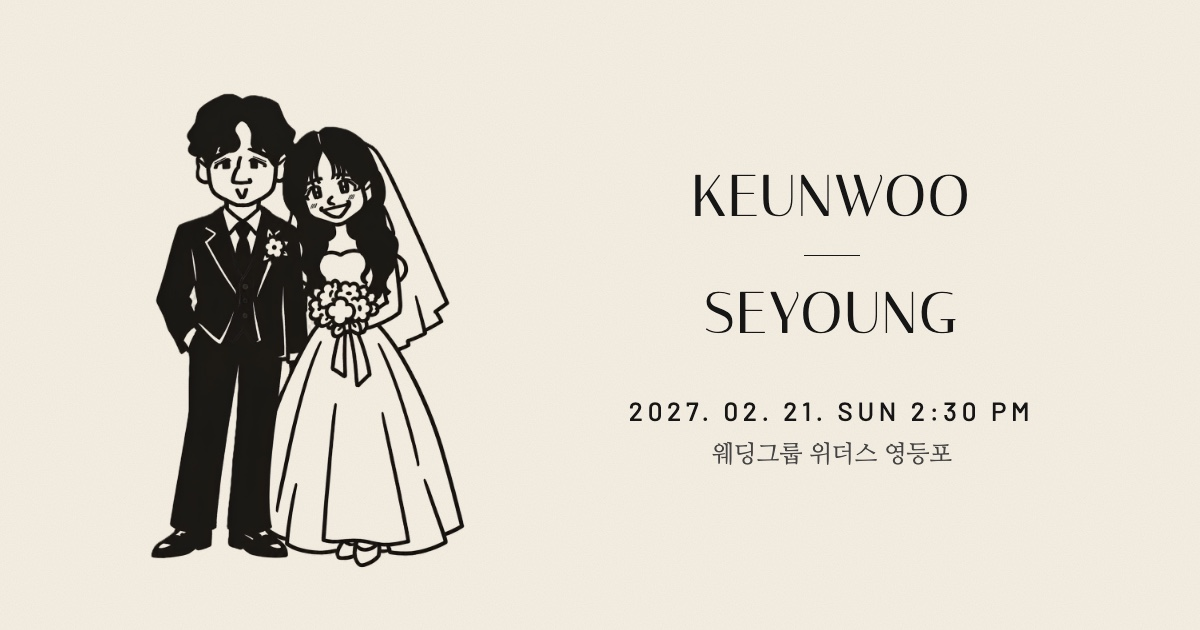
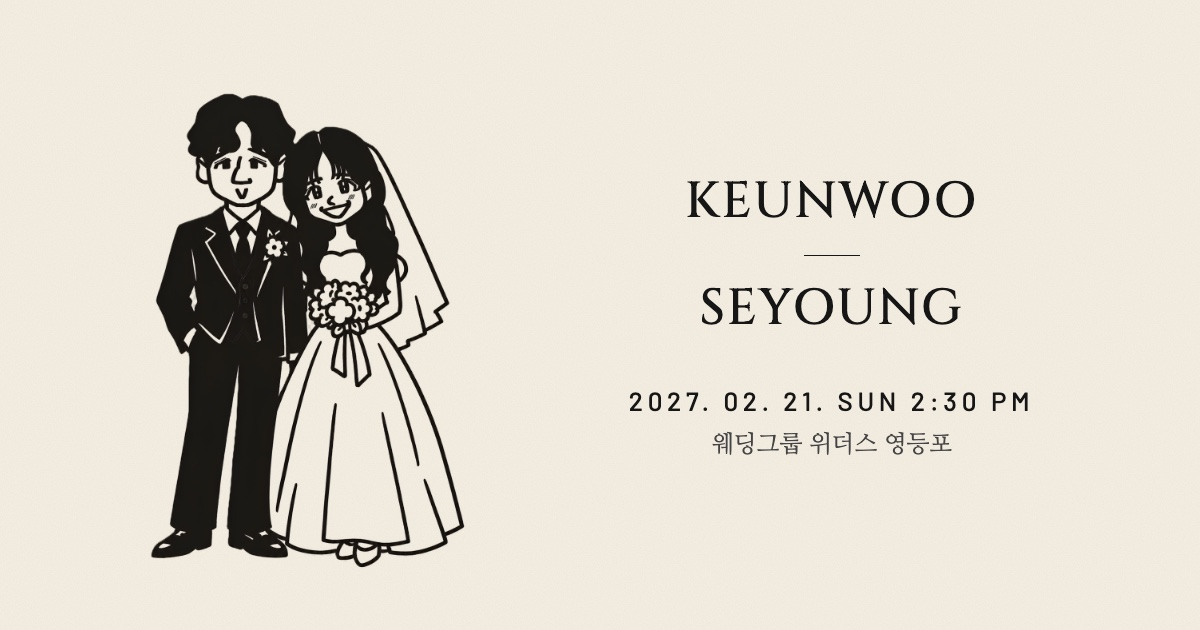
Improve heading font legibility
- Names: Italiana -> Cinzel 500 (cover, footer, OG image)
- SAVE THE DATE: Bodoni Moda at small optical size for thicker hairlines

Changed region(s): [[0.5242, 0.6032, 0.8633, 0.754], [0.555, 0.2714, 0.8325, 0.3619], [0.5858, 0.4524, 0.8017, 0.5429]]

diff --git a/index.html b/index.html
@@ -19,7 +19,7 @@
 <meta name="theme-color" content="#f5efe3">
 <link rel="preconnect" href="https://fonts.googleapis.com">
 <link rel="preconnect" href="https://fonts.gstatic.com" crossorigin>
-<link href="https://fonts.googleapis.com/css2?family=Italiana&family=Barlow:wght@500&family=Bodoni+Moda:opsz,wght@6..96,700&family=Nanum+Myeongjo:wght@400;700;800&family=Noto+Sans+KR:wght@400&display=swap" rel="stylesheet">
+<link href="https://fonts.googleapis.com/css2?family=Cinzel:wght@500&family=Barlow:wght@500&family=Bodoni+Moda:opsz,wght@6..96,700&family=Nanum+Myeongjo:wght@400;700;800&family=Noto+Sans+KR:wght@400&display=swap" rel="stylesheet">
 <style>
   :root {
     --paper: #f5efe3;
@@ -70,8 +70,8 @@
     container-type: size; /* 남은 공간 크기를 일러스트 크기 계산에 사용 */
   }
   .cover .names {
-    font-family: 'Italiana', serif; font-weight: 400;
-    font-size: clamp(22px, 7vw, 34px); letter-spacing: .04em; line-height: 1.2;
+    font-family: 'Cinzel', serif; font-weight: 500;
+    font-size: clamp(19px, 6.4vw, 30px); letter-spacing: .04em; line-height: 1.2;
     white-space: nowrap;
   }
   .dash { display: inline-block; width: 1.1em; height: 1px; background: currentColor; margin: 0 .45em; vertical-align: .32em; }
@@ -142,6 +142,7 @@
   /* ── 뒷면 ───────────────────────── */
   .save {
     font-family: 'Bodoni Moda', serif; font-weight: 700; font-size: 30px; letter-spacing: .03em;
+    font-variation-settings: 'opsz' 6; /* 작은 광학 크기: 가는 획을 두껍게 해서 가독성 확보 */
     line-height: 1.2; margin-bottom: 48px; color: var(--ink);
   }
   .message p { font-size: 15px; line-height: 2.1; }
@@ -198,7 +199,7 @@
 
   footer { padding: 24px 28px 72px; text-align: center; }
   footer .names {
-    font-family: 'Italiana', serif; font-size: 20px; letter-spacing: .06em; margin-top: 40px;
+    font-family: 'Cinzel', serif; font-weight: 500; font-size: 17px; letter-spacing: .06em; margin-top: 40px;
   }
 
   .toast {
